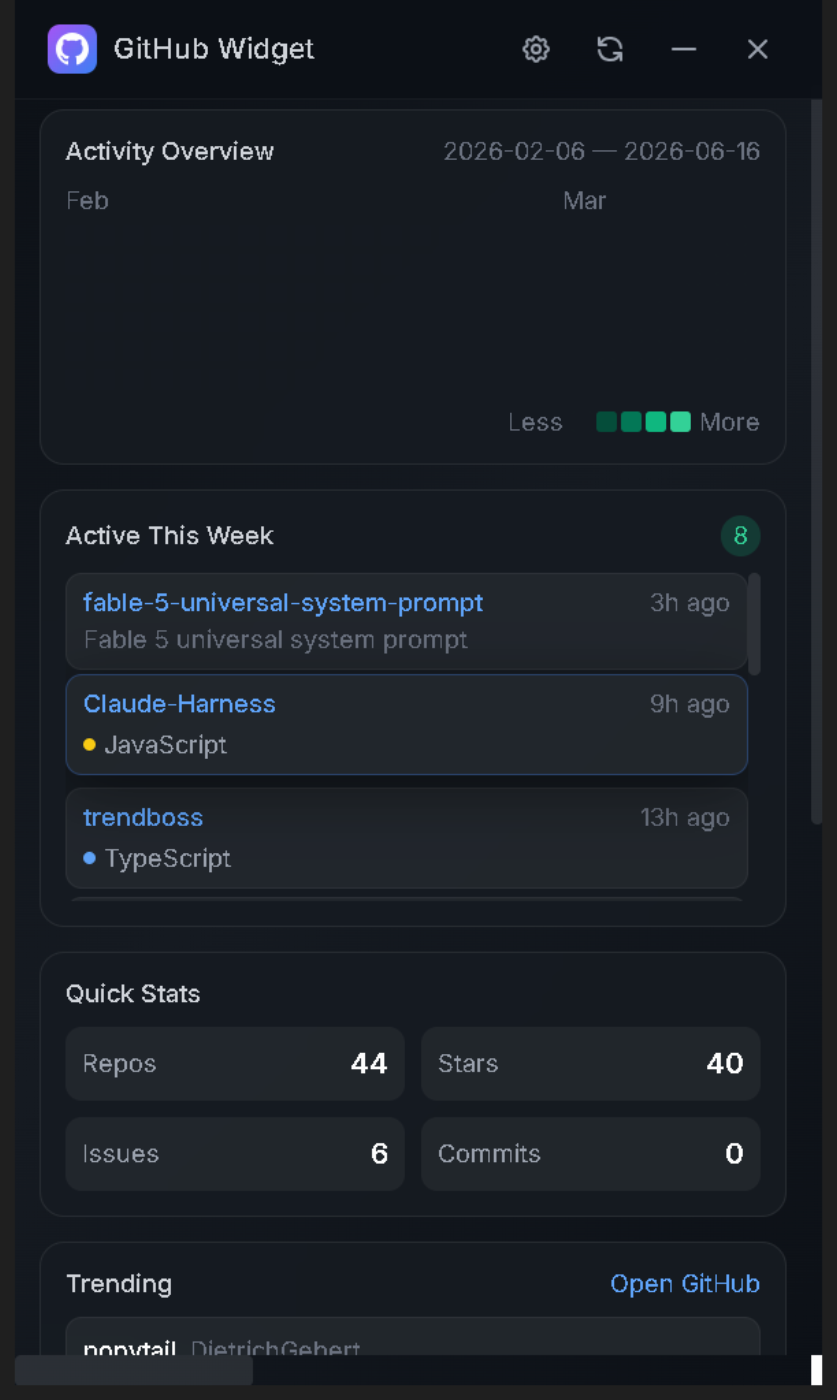
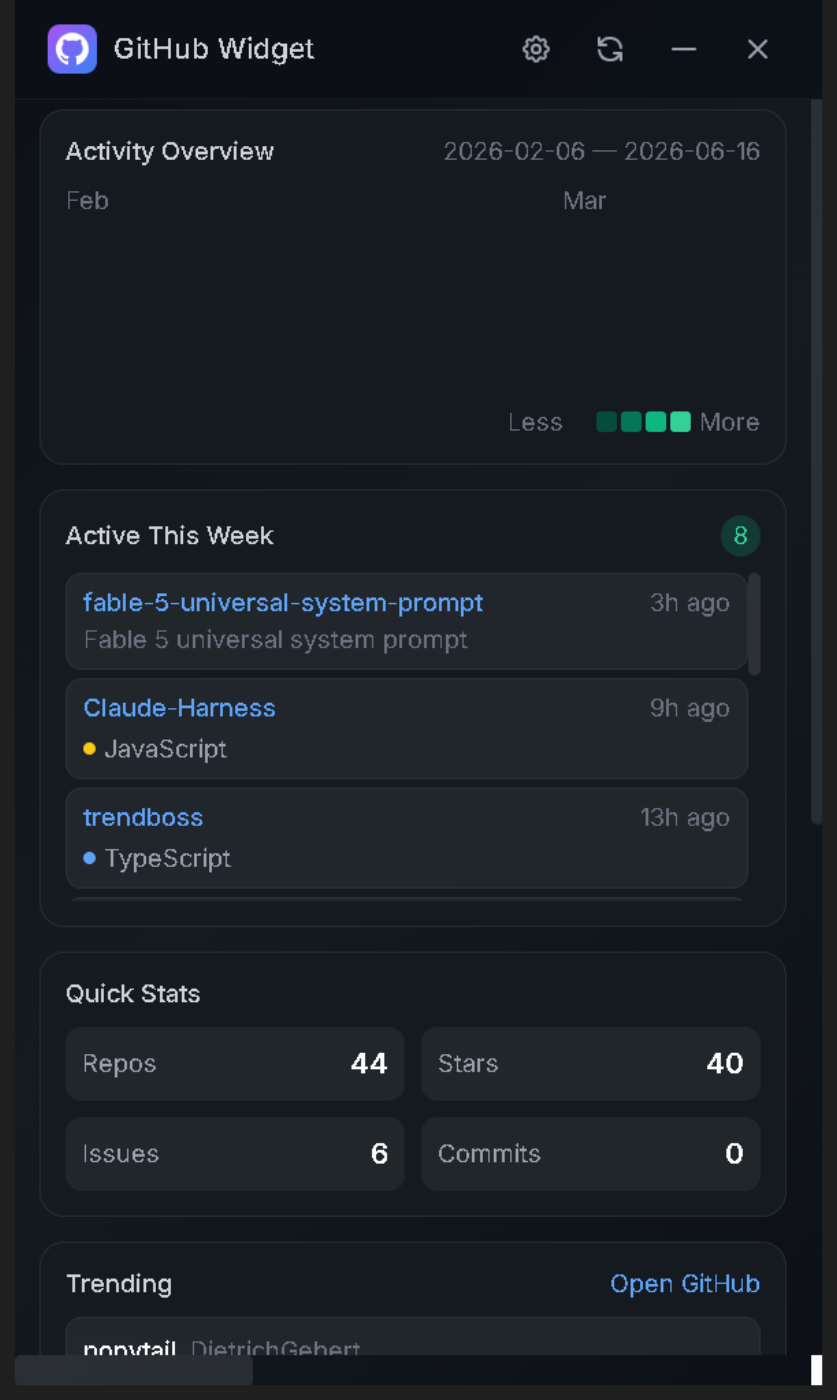
fix: token needs repo scope for private repos, increase event pages to 30
- Updated settings panel to note repo scope requirement for private repos
- Increased event pages from 10 to 30 for longer activity history

Changed region(s): [[0.0932, 0.4914, 0.3417, 0.5529], [0.7766, 0.4914, 0.8698, 0.5221]]

diff --git a/main.js b/main.js
@@ -152,13 +152,12 @@ ipcMain.on('close-window', () => {
 
 ipcMain.handle('github-fetch-data', async (event, { username, token }) => {
   try {
-    // Fetch all pages of user events (activity map - need several months)
+    // Fetch all pages of user events (activity map - GitHub stores ~300 events for public, more with token)
     let allEvents = [];
-    for (let page = 1; page <= 10; page++) {
+    for (let page = 1; page <= 30; page++) {
       const ev = await fetchGitHub(`/users/${username}/events?per_page=100&page=${page}`, token);
-      if (Array.isArray(ev)) {
+      if (Array.isArray(ev) && ev.length > 0) {
         allEvents = allEvents.concat(ev);
-        if (ev.length < 100) break;
       } else {
         break;
       }
@@ -168,9 +167,8 @@ ipcMain.handle('github-fetch-data', async (event, { username, token }) => {
     let allRepos = [];
     for (let page = 1; page <= 10; page++) {
       const r = await fetchGitHub(`/users/${username}/repos?sort=pushed&per_page=100&page=${page}&type=all`, token);
-      if (Array.isArray(r)) {
+      if (Array.isArray(r) && r.length > 0) {
         allRepos = allRepos.concat(r);
-        if (r.length < 100) break;
       } else {
         break;
       }

diff --git a/widget.html b/widget.html
@@ -100,7 +100,7 @@
           <label class="block text-xs text-gray-400 mb-1">GitHub Token <span class="text-gray-500">(optional, for higher rate limits)</span></label>
           <input id="input-token" type="password" placeholder="ghp_..." class="w-full px-3 py-2 rounded-lg bg-white/5 border border-white/10 text-sm text-white placeholder-gray-500 focus:outline-none focus:border-blue-500/50">
         </div>
-        <p class="text-xs text-gray-500">Token needs no scopes for public repos. Get one at GitHub → Settings → Developer Settings → Personal Access Tokens.</p>
+        <p class="text-xs text-gray-500">Token needs <b>repo</b> scope for private repos. Get one at GitHub → Settings → Developer Settings → Personal Access Tokens → Generate new token → Select "repo" scope.</p>
         <button id="btn-save-config" class="w-full py-2 rounded-lg bg-blue-600 hover:bg-blue-500 text-sm font-medium text-white transition-colors">Save & Refresh</button>
       </div>
     </div>
